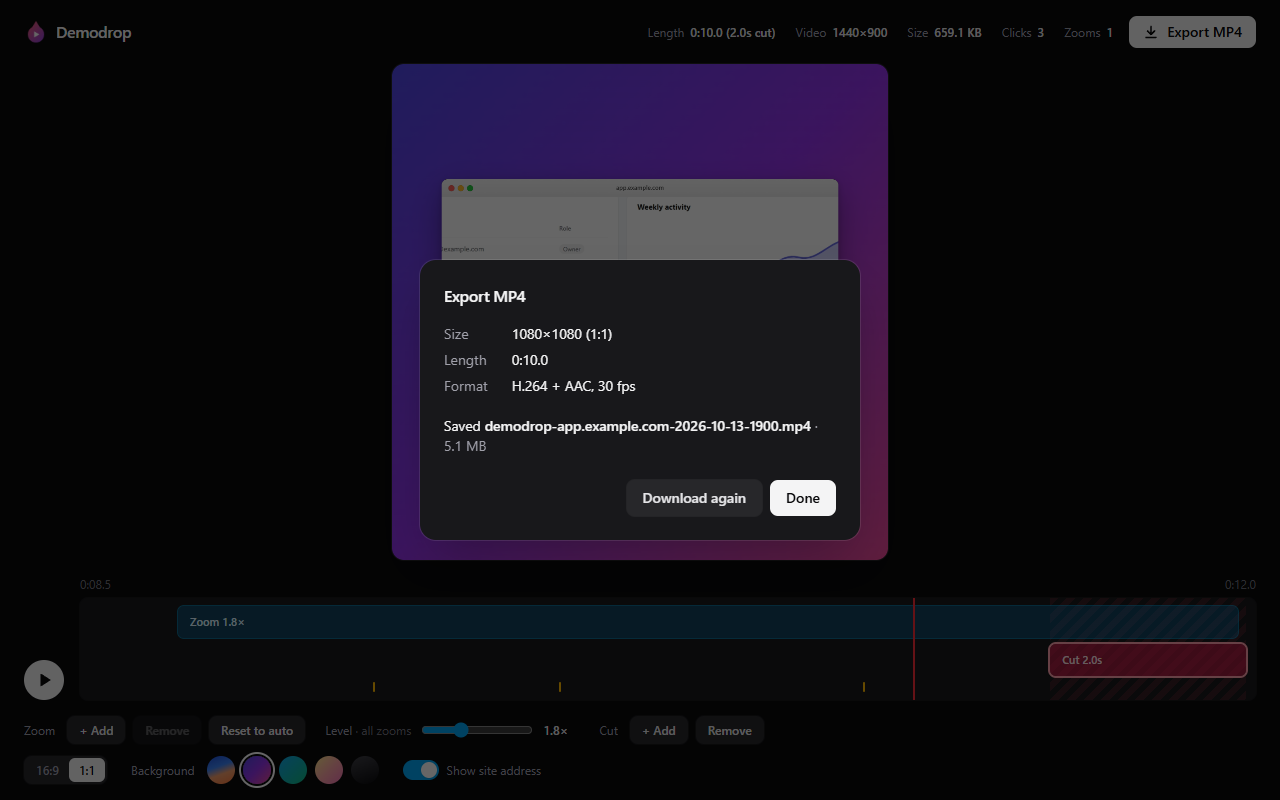
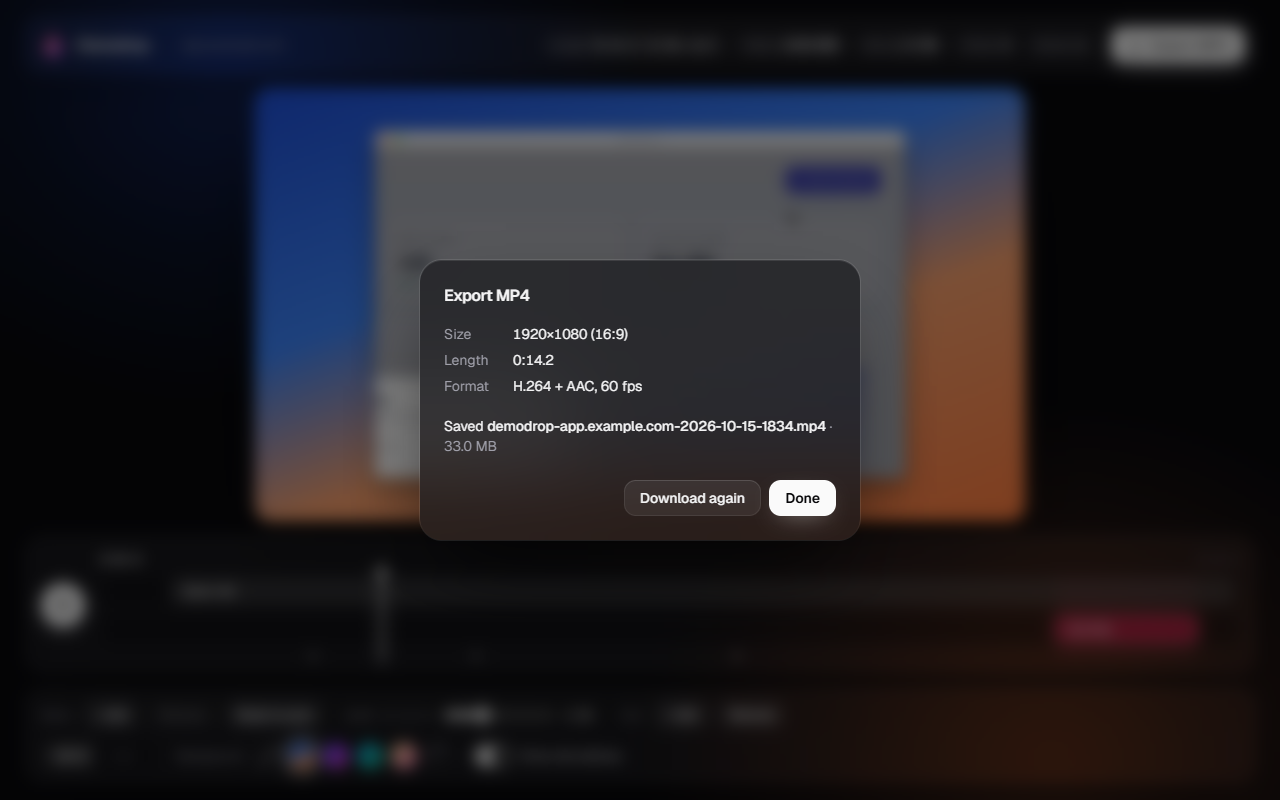
Demodrop is live; trim the project list
- Demodrop links to its Chrome Web Store page and shows as Live, with
  an Add to Chrome button and store link on the case study
- Editor screenshots retaken for Demodrop v0.2.0
- Remove Coyaar and Vendue
- Abhi and Atul has no public link while it's paused, so the Earlier
  list shows it as a plain row

diff --git a/app/projects/demodrop/page.tsx b/app/projects/demodrop/page.tsx
@@ -2,6 +2,7 @@ import { BackLink } from '@/components/back-link'
 import { ProjectIcon, ProjectStatusBadge } from '@/components/project-bits'
 import { SiteFooter } from '@/components/site-footer'
 import { getProject } from '@/lib/projects'
+import { ArrowUpRight } from 'lucide-react'
 import { Metadata } from 'next'
 import Image from 'next/image'
 
@@ -19,7 +20,7 @@ const enter =
   'animate-in fade-in slide-in-from-bottom-1 fill-mode-both duration-700 motion-reduce:animate-none'
 
 const facts = [
-  { value: '3 days', label: 'first commit to v0.1' },
+  { value: '3 days', label: 'first commit to the store' },
   { value: '0', label: 'servers or uploads' },
   { value: '60 fps', label: '1080p MP4 export' },
   { value: '4', label: 'permissions, no host access' },
@@ -29,7 +30,7 @@ const screens = [
   { src: 'editor.png', caption: 'Edit', alt: 'The editor: a framed preview zoomed in on a dialog, with a zoom block on the timeline' },
   { src: 'square-and-cut.png', caption: '1:1 and cuts', alt: 'The editor at 1:1 with a purple background and a cut at the end of the timeline' },
   { src: 'blur.png', caption: 'Blur before recording', alt: 'Picking elements to blur on a dashboard, with email addresses already frosted' },
-  { src: 'exporting.png', caption: 'Export', alt: 'The export dialog rendering a 1080×1080 MP4' },
+  { src: 'exporting.png', caption: 'Export', alt: 'The export dialog rendering a 1920×1080 MP4 at 60 fps' },
   { src: 'exported.png', caption: 'Saved', alt: 'The export dialog after saving the MP4' },
 ]
 
@@ -102,9 +103,9 @@ const stack = [
 ]
 
 const next = [
-  'Publish on the Chrome Web Store',
   'Record Demodrop’s own launch demo with Demodrop',
   'Keep logging the pointer when the recorded tab navigates to a new page',
+  'Follow the pointer inside cross-origin iframes',
 ]
 
 export default function Page() {
@@ -138,9 +139,19 @@ export default function Page() {
             </Meta>
           </dl>
 
-          <p className='mt-6 text-sm text-muted-foreground'>
-            Coming soon to the Chrome Web Store.
-          </p>
+          <div className='mt-6 flex flex-wrap items-center gap-2'>
+            <a
+              href={project.url}
+              target='_blank'
+              rel='noopener noreferrer'
+              data-track='project_site_clicked'
+              data-track-slug={project.slug}
+              data-track-source='case_study'
+              className='inline-flex h-9 items-center gap-1 rounded-full bg-foreground px-4 text-sm font-medium text-background transition-transform duration-150 ease-[cubic-bezier(0.23,1,0.32,1)] focus-visible:outline-none focus-visible:ring-2 focus-visible:ring-ring focus-visible:ring-offset-2 focus-visible:ring-offset-background active:scale-[0.97] motion-reduce:transition-none'>
+              Add to Chrome
+              <ArrowUpRight className='h-4 w-4' />
+            </a>
+          </div>
         </header>
 
         {/* The whole flow at a glance, scrolled sideways. The negative margin
@@ -226,6 +237,27 @@ export default function Page() {
             ))}
           </ul>
         </Section>
+
+        <div className='mt-14 flex flex-wrap items-center justify-between gap-4 rounded-xl border px-4 py-4'>
+          <div className='flex items-center gap-3'>
+            <ProjectIcon project={project} />
+            <div>
+              <p className='text-sm font-medium'>Shipping something?</p>
+              <p className='text-sm text-muted-foreground'>Turn a tab into a demo worth posting.</p>
+            </div>
+          </div>
+          <a
+            href={project.url}
+            target='_blank'
+            rel='noopener noreferrer'
+            data-track='project_site_clicked'
+            data-track-slug={project.slug}
+            data-track-source='case_study_footer'
+            className='inline-flex items-center gap-0.5 rounded-sm text-sm transition-colors hover:text-grass focus-visible:outline-none focus-visible:ring-2 focus-visible:ring-ring'>
+            {project.domain}
+            <ArrowUpRight className='h-3.5 w-3.5' />
+          </a>
+        </div>
       </div>
 
       <SiteFooter className='mt-auto pt-20' />

diff --git a/app/projects/page.tsx b/app/projects/page.tsx
@@ -70,28 +70,22 @@ export default function Page() {
           <ul className='-mx-3 mt-3'>
             {rest.map((project) => (
               <li key={project.slug}>
-                <a
-                  href={project.url}
-                  target='_blank'
-                  rel='noopener noreferrer'
-                  data-track='project_site_clicked'
-                  data-track-slug={project.slug}
-                  className='group flex items-center gap-3 rounded-lg px-3 py-2.5 transition-colors hover:bg-accent focus-visible:outline-none focus-visible:ring-2 focus-visible:ring-ring'>
-                  <ProjectIcon project={project} />
-                  <span className='min-w-0 flex-1'>
-                    <span className='flex items-center gap-1'>
-                      {project.name}
-                      <ArrowUpRight
-                        aria-hidden
-                        className='h-3.5 w-3.5 text-muted-foreground opacity-0 transition-[opacity,transform] duration-200 group-hover:translate-x-px group-hover:opacity-100 motion-reduce:transition-none'
-                      />
-                    </span>
-                    <span className='block truncate text-sm text-muted-foreground'>
-                      {project.tagline} · {project.stack.join(', ')}
-                    </span>
-                  </span>
-                  <ProjectStatusBadge status={project.status} />
-                </a>
+                {project.url ? (
+                  <a
+                    href={project.url}
+                    target='_blank'
+                    rel='noopener noreferrer'
+                    data-track='project_site_clicked'
+                    data-track-slug={project.slug}
+                    className='group flex items-center gap-3 rounded-lg px-3 py-2.5 transition-colors hover:bg-accent focus-visible:outline-none focus-visible:ring-2 focus-visible:ring-ring'>
+                    <ProjectRow project={project} linked />
+                  </a>
+                ) : (
+                  // Nothing public to open yet, so it's a plain row
+                  <div className='flex items-center gap-3 px-3 py-2.5'>
+                    <ProjectRow project={project} />
+                  </div>
+                )}
               </li>
             ))}
           </ul>
@@ -100,6 +94,29 @@ export default function Page() {
 
       <SiteFooter className='mt-auto pt-20' />
     </div>
+  )
+}
+
+function ProjectRow({ project, linked = false }: { project: Project; linked?: boolean }) {
+  return (
+    <>
+      <ProjectIcon project={project} />
+      <span className='min-w-0 flex-1'>
+        <span className='flex items-center gap-1'>
+          {project.name}
+          {linked ? (
+            <ArrowUpRight
+              aria-hidden
+              className='h-3.5 w-3.5 text-muted-foreground opacity-0 transition-[opacity,transform] duration-200 group-hover:translate-x-px group-hover:opacity-100 motion-reduce:transition-none'
+            />
+          ) : null}
+        </span>
+        <span className='block truncate text-sm text-muted-foreground'>
+          {project.tagline} · {project.stack.join(', ')}
+        </span>
+      </span>
+      <ProjectStatusBadge status={project.status} />
+    </>
   )
 }
 

diff --git a/lib/projects.ts b/lib/projects.ts
@@ -44,7 +44,9 @@ export const projects: Project[] = [
     tagline: 'Polished demo videos from any tab',
     description:
       'A Chrome extension that records a browser tab and turns it into a demo video made for posting on X: auto-zoom that follows the pointer, a framed window, cuts, and MP4 export. Nothing leaves your device.',
-    status: 'In progress',
+    url: 'https://chromewebstore.google.com/detail/kobkeckelnodecamcnhmlnklhijhcgkf',
+    domain: 'Chrome Web Store',
+    status: 'Live',
     year: '2026',
     stack: ['Chrome MV3', 'WXT', 'React 19', 'WebCodecs', 'Mediabunny', 'Canvas'],
     icon: '/projects/demodrop/icon.png',
@@ -55,31 +57,9 @@ export const projects: Project[] = [
     slug: 'abhi-and-atul',
     name: 'Abhi and Atul',
     tagline: 'Sound and lights services',
-    url: 'https://atul-abhi-web.vercel.app/',
-    domain: 'atul-abhi-web.vercel.app',
     status: 'In progress',
     stack: ['Next.js', 'Aceternity UI'],
     monogram: 'AA',
-  },
-  {
-    slug: 'coyaar',
-    name: 'Coyaar',
-    tagline: 'Find or list your perfect stay',
-    url: 'https://www.coyaar.com',
-    domain: 'coyaar.com',
-    status: 'Completed',
-    stack: ['Next.js', 'PostgreSQL'],
-    monogram: 'CY',
-  },
-  {
-    slug: 'vendue',
-    name: 'Vendue',
-    tagline: 'A realtime bidding app',
-    url: 'https://vendue-web.vercel.app/',
-    domain: 'vendue-web.vercel.app',
-    status: 'Offline',
-    stack: ['Next.js', 'Supabase', 'AWS'],
-    monogram: 'V',
   },
 ]
 
